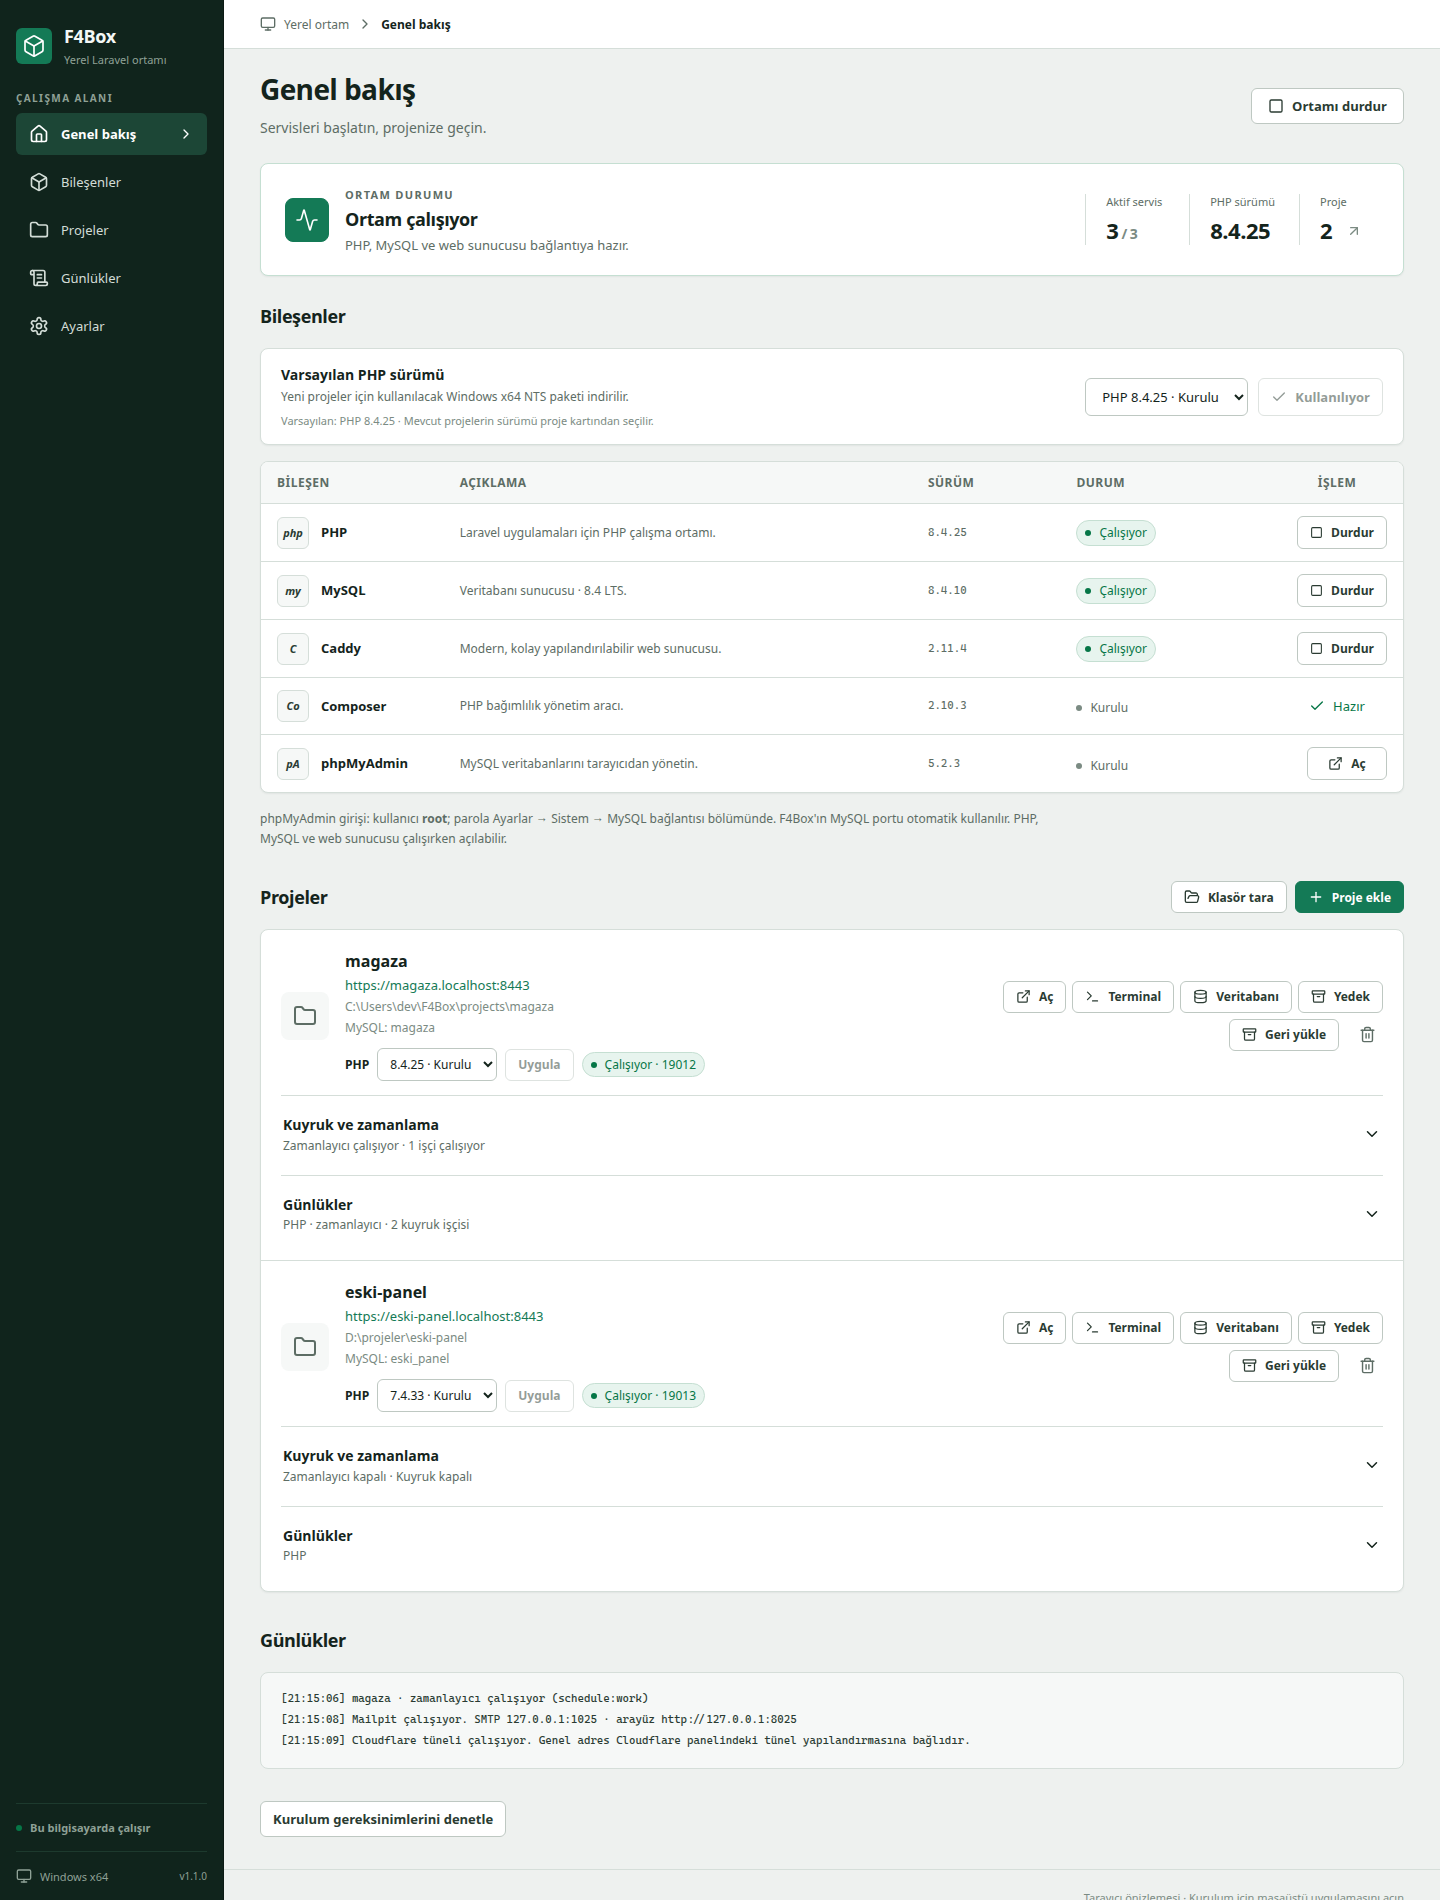
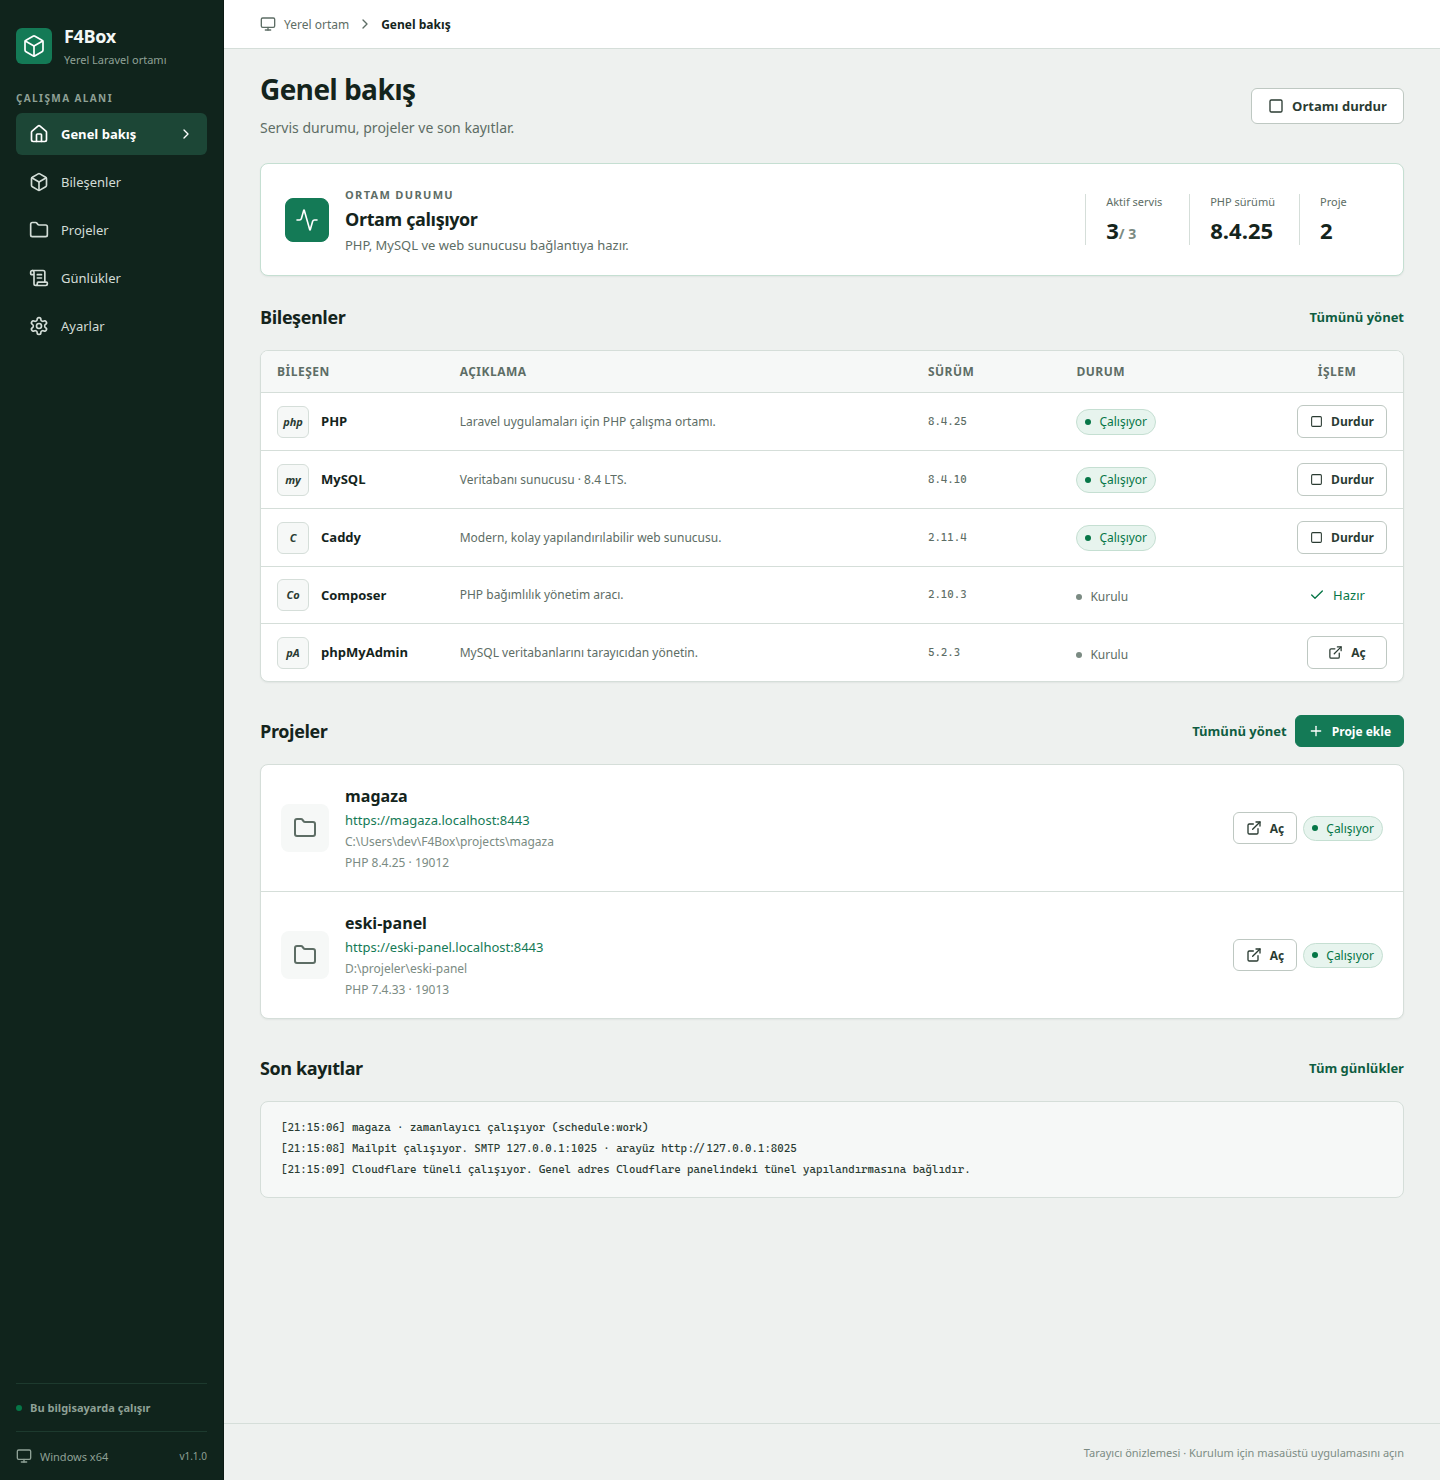
Refresh screenshots for the operations console.

diff --git a/docs/screenshots/README.md b/docs/screenshots/README.md
@@ -6,7 +6,7 @@ Görüntüler `npm run build && node scripts/ai/screenshots.mjs` komutuyla üret
 
 ## Genel bakış
 
-Ortam durumu, bileşen tablosu, proje listesi ve son günlük satırları tek ekranda.
+Kontrol odası: ortam özeti, sade bileşen tablosu, kompakt proje satırları ve son kayıtlar.
 
 ![Genel bakış](01-genel-bakis.png)
 
@@ -18,7 +18,7 @@ Kurulu paketler, sürümler, lisanslar, süreç kimlikleri, varsayılan PHP sür
 
 ## Projeler, kuyruk ve zamanlama
 
-Proje kartından PHP sürümü seçimi; kart içindeki panelden Laravel `schedule:run` zamanlayıcısı, Supervisor benzeri `queue:work` işçileri, yeniden başlatma, günlükler ve başarısız işler.
+Proje kartında Aç, Terminal ve Veritabanı; yedek ve kaldırma Diğer menüsünde. Panelden Laravel zamanlayıcısı, `queue:work` işçileri, yeniden başlatma, günlükler ve başarısız işler.
 
 ![Projeler, kuyruk işçileri ve zamanlayıcı](03-projeler-kuyruk.png)
 
@@ -48,7 +48,7 @@ Cloudflared kurulumu, jeton kaydı, tünelin başlatılması ve ortamla birlikte
 
 ## PHP ayarları
 
-PHP profilleri, bellek ve dosya yükleme sınırları, hata gösterimi ve uzantı seçimi.
+Ortam / Hizmetler / Yönetim gruplu sekmeler; PHP profilleri, bellek ve dosya yükleme sınırları, hata gösterimi ve uzantı seçimi.
 
 ![PHP ayarları](07-php-ayarlari.png)
 
